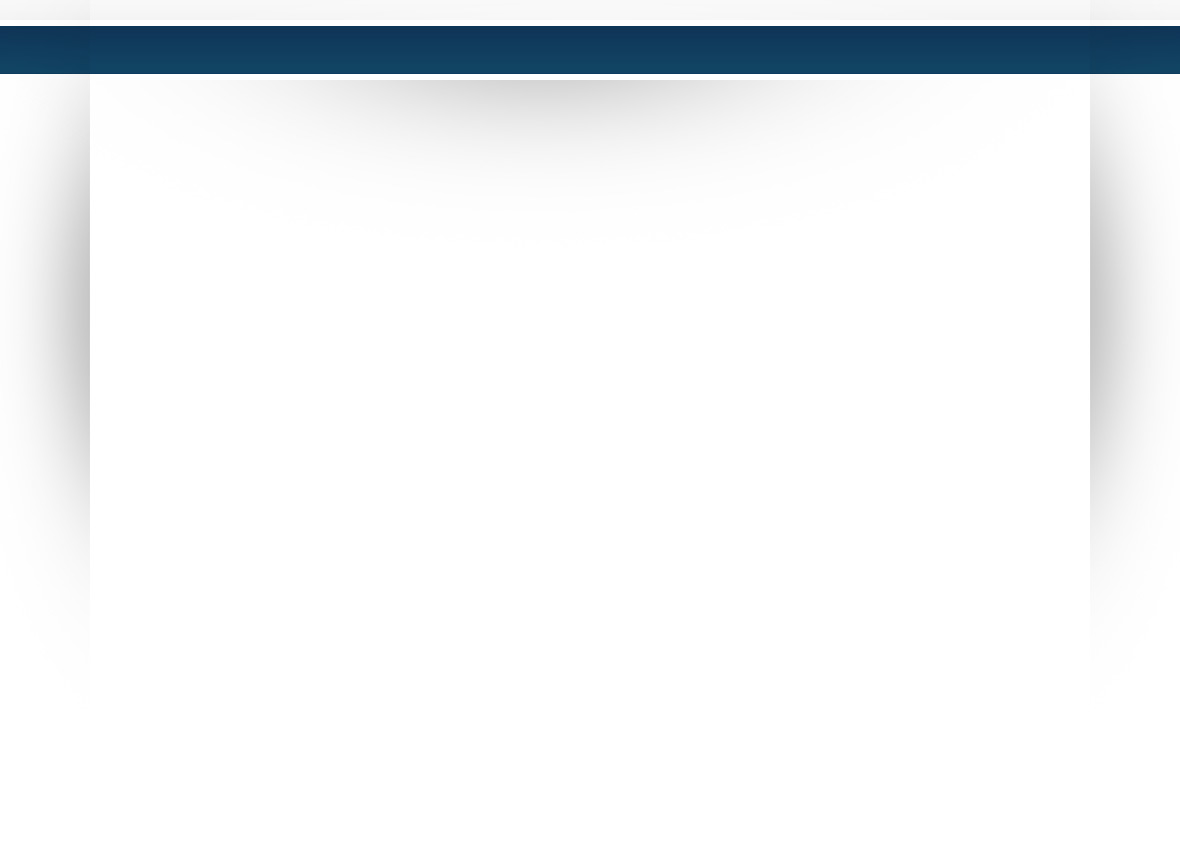
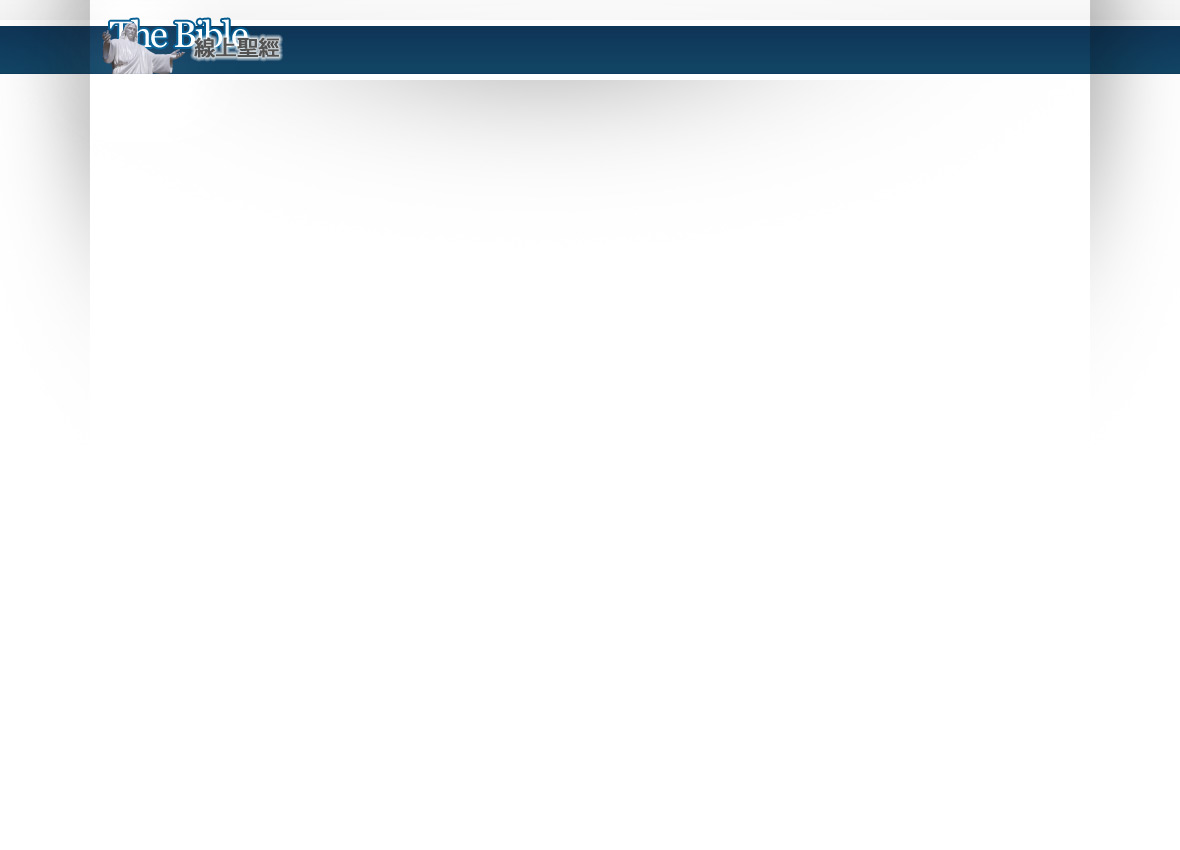
調整首頁及子頁面背景

diff --git a/main=index.php b/main=index.php
@@ -37,6 +37,7 @@ $(document).ready( function(){
     height:450px;
     font-family: Georgia, "蘋果儷黑體", "微軟正黑體", "新細明體", "Times New Roman", Times, serif;
 }
+/*
 .ot{ width:330px; }
 .nt{ width:320px; }
 .blocks-ot{ float:left;width:120px; }
@@ -46,6 +47,25 @@ $(document).ready( function(){
 .blocks-nt{ float:left;width:150px; }
 #block-nt-1{ width:150px; }
 #block-nt-2{ width:160px; }
+*/
+.ot{ position:absolute;width:360px;left:0px;z-index:10; }
+.nt{ position:absolute;width:320px;right:0px;z-index:10; }
+#middle-area{
+    position:absolute;
+    z-index:0;
+    width:100%;
+    height:100%;
+    background:url(<?php echo layout_url('main','/images/jesus.png'); ?>) no-repeat center top;
+    alpha(opacity=50);
+    opacity:0.5;
+}
+.blocks-ot{ float:left;width:120px; }
+/*#block-ot-1{ width:113px; }
+#block-ot-2{ width:105px; }
+#block-ot-3{ width:112px; }*/
+.blocks-nt{ float:left;width:150px; }
+/*#block-nt-1{ width:150px; }
+#block-nt-2{ width:160px; }*/
 
 .cloud{ line-height:24px; }
 .cloud a{ text-decoration:none;letter-spacing:-1px; }
@@ -61,10 +81,11 @@ $(document).ready( function(){
 </style>
 			<div id="page" class="single container">
 				<div id="content">
-				    <div class="clearfix" style="border-bottom:1px solid #CCC;margin-bottom:40px;">
-    					<div id="box5" class="ot box-style sky" style="float:left;">
+				    <div class="clearfix" style="position:relative;border-bottom:1px solid #CCC;margin-bottom:40px;height:450px;">
+    					<div id="middle-area"></div>
+    					<div id="box5" class="ot box-style sky">
     					    <h2 class="title">舊約 Old Testament</h2>
-    					    <div class="cloud" style="line-height:24px;">
+    					    <div class="cloud">
 <?php
     $max=39;
     $blockChaps=13;
@@ -98,9 +119,9 @@ $(document).ready( function(){
 
                             </div>
     					</div>
-    					<div id="box5" class="nt box-style sky" style="float:right;">
+    					<div id="box5" class="nt box-style sky">
     					    <h2 class="title">新約 New Testament</h2>
-    					    <div class="cloud" style="line-height:24px;">
+    					    <div class="cloud">
 <?php
     $max=66;
     $blockChaps=14;
@@ -136,8 +157,6 @@ $(document).ready( function(){
 
         					</div>
     					</div>
-    					<div id="middle-area" style="position:relative;width:200px;height:450px;background:url(<?php echo layout_url('main','/images/jesus.png'); ?>) center top;margin:0 auto;">
-                        </div>
 					</div>
 					<div class="box5 box-style" style="width:65%;float:left;">
                         <div class="clearfix" style="padding-bottom:20px;margin-bottom:30px;">

diff --git a/main.php b/main.php
@@ -54,7 +54,7 @@ if( file_exists($viewTpl) )
 
 function index(){
     $rows=Main::getBooks();
-    View::setHeader( 'sitename', 'The Bible 線上聖經 - 最美最舒適的線上讀經網站' );
+    View::setHeader( 'sitename', 'The Bible 線上聖經 - 最美最舒適的線上讀經網' );
     APP::$appBuffer = array($rows);
 }
 function catalog(){
